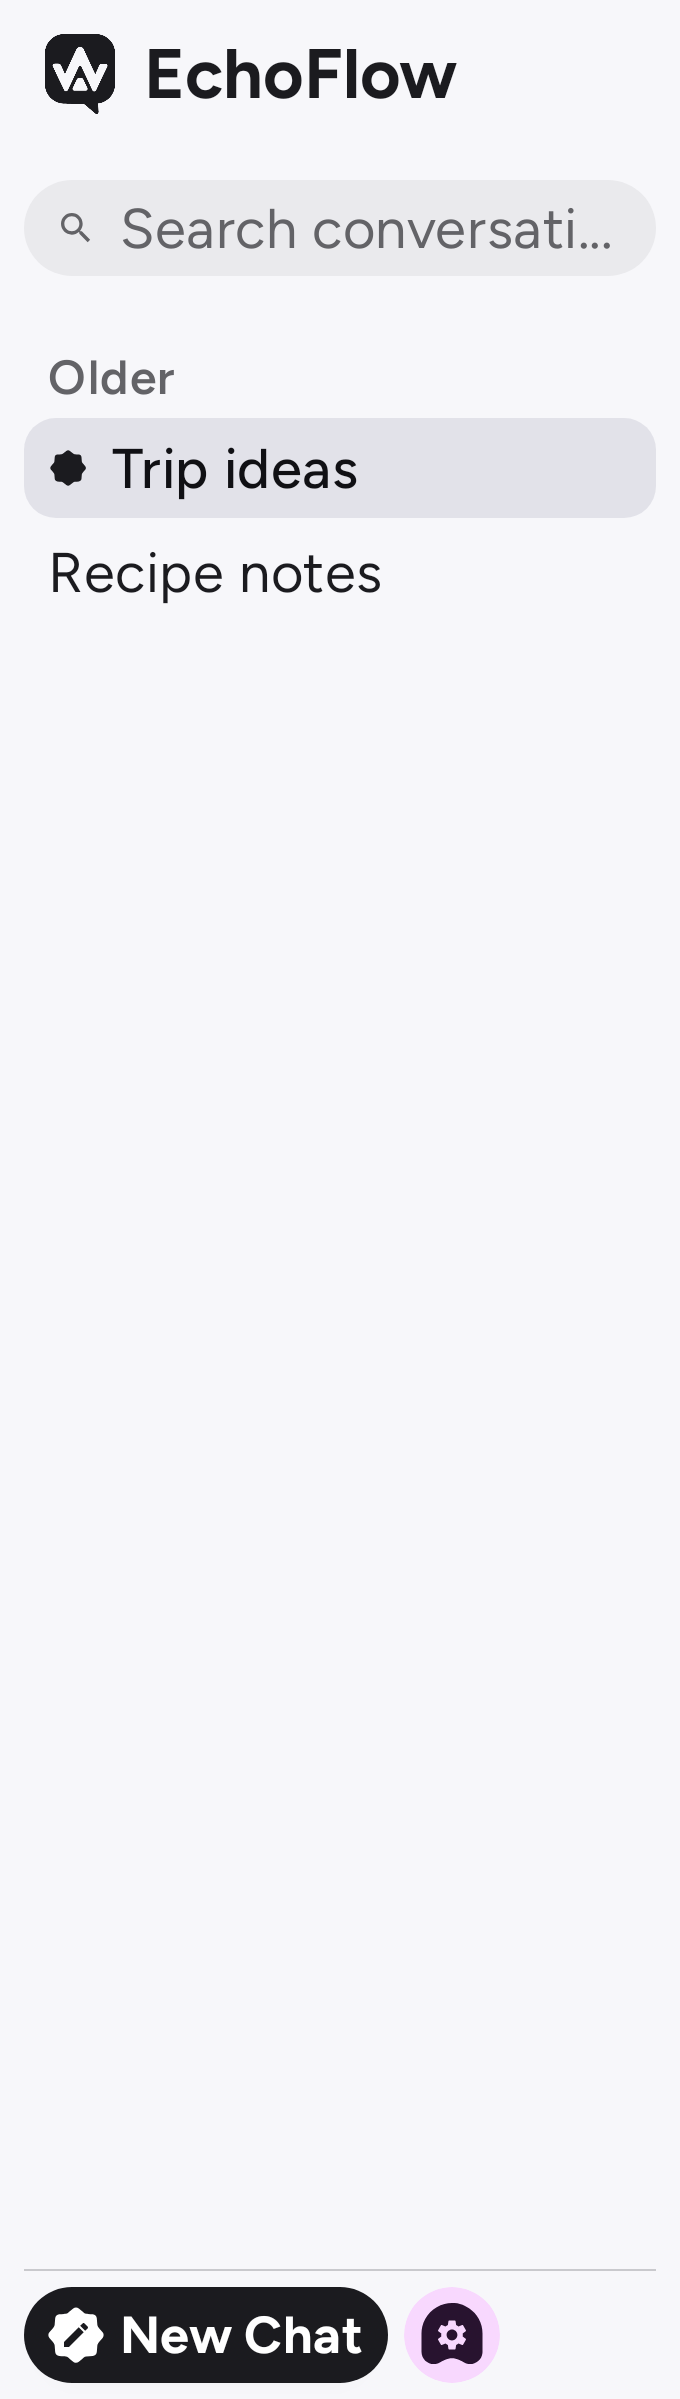
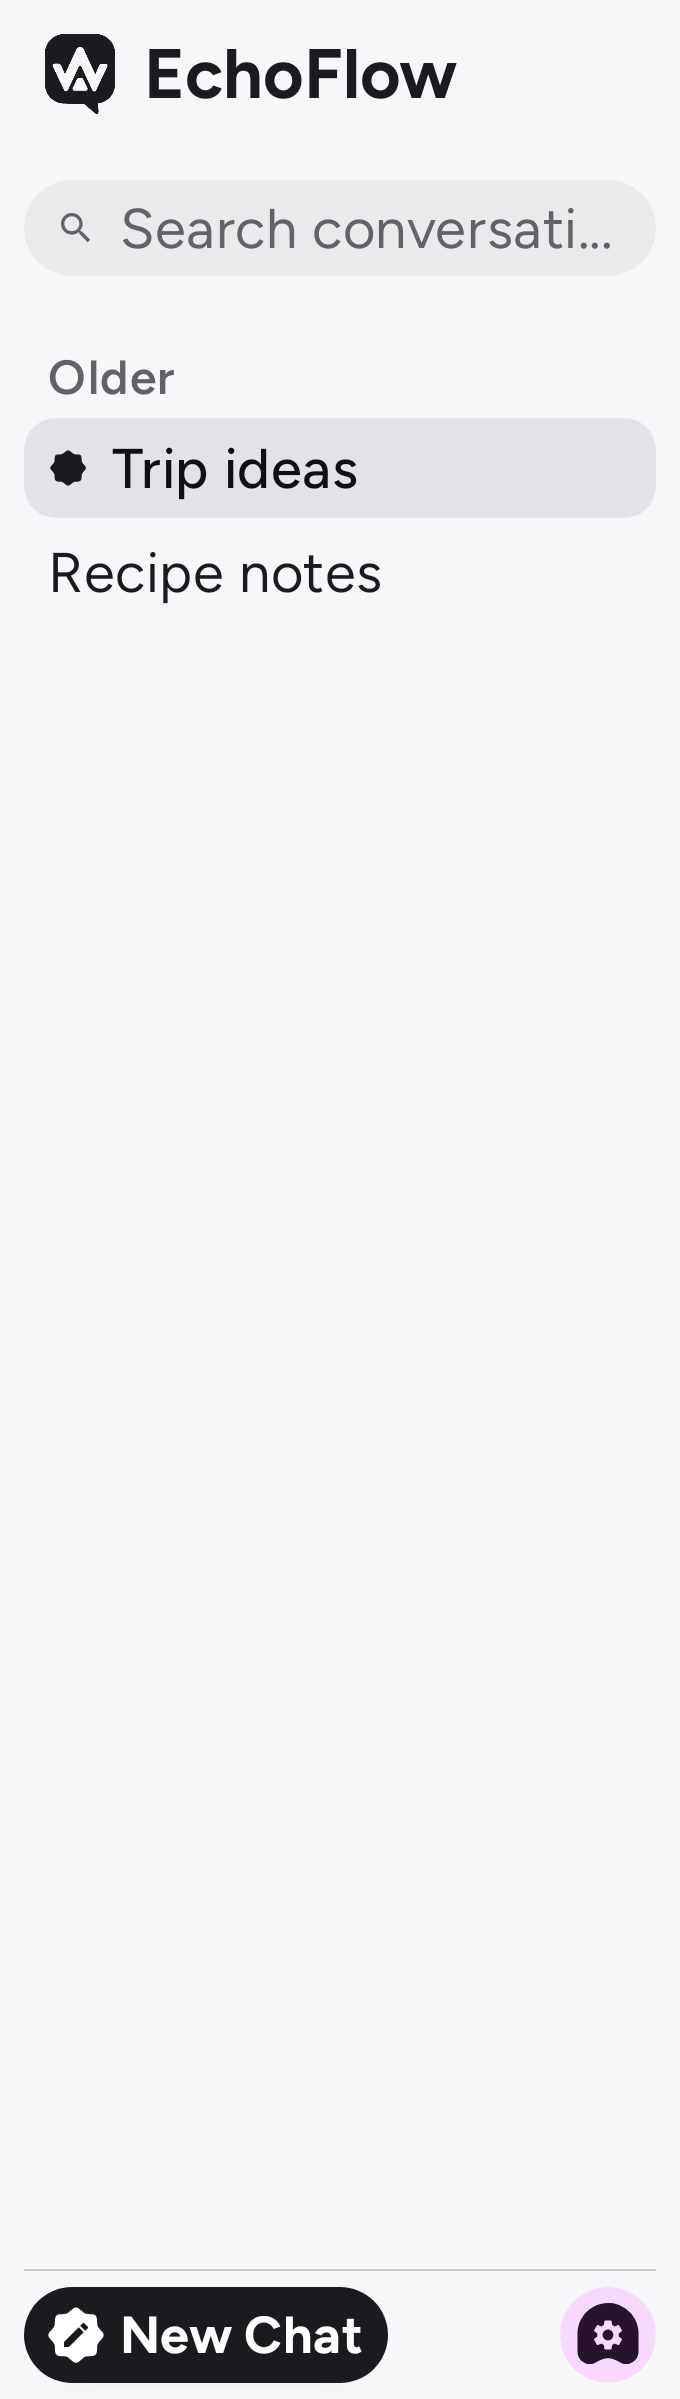
Pin settings to drawer footer right edge
Use SpaceBetween so compact New Chat stays left and the circular
settings button anchors to the far right with flexible gap between.

Changed region(s): [[0.8029, 0.9562, 0.9574, 1.0], [0.5868, 0.9562, 0.7412, 1.0]]

diff --git a/app/src/main/java/com/echoflow/ui/components/ChatDrawer.kt b/app/src/main/java/com/echoflow/ui/components/ChatDrawer.kt
@@ -215,7 +215,7 @@ private fun DrawerFooterRow(
 ) {
     Row(
         Modifier.fillMaxWidth(),
-        horizontalArrangement = Arrangement.spacedBy(Spacing.s),
+        horizontalArrangement = Arrangement.SpaceBetween,
         verticalAlignment = Alignment.CenterVertically,
     ) {
         val newChatInteraction = remember { MutableInteractionSource() }
